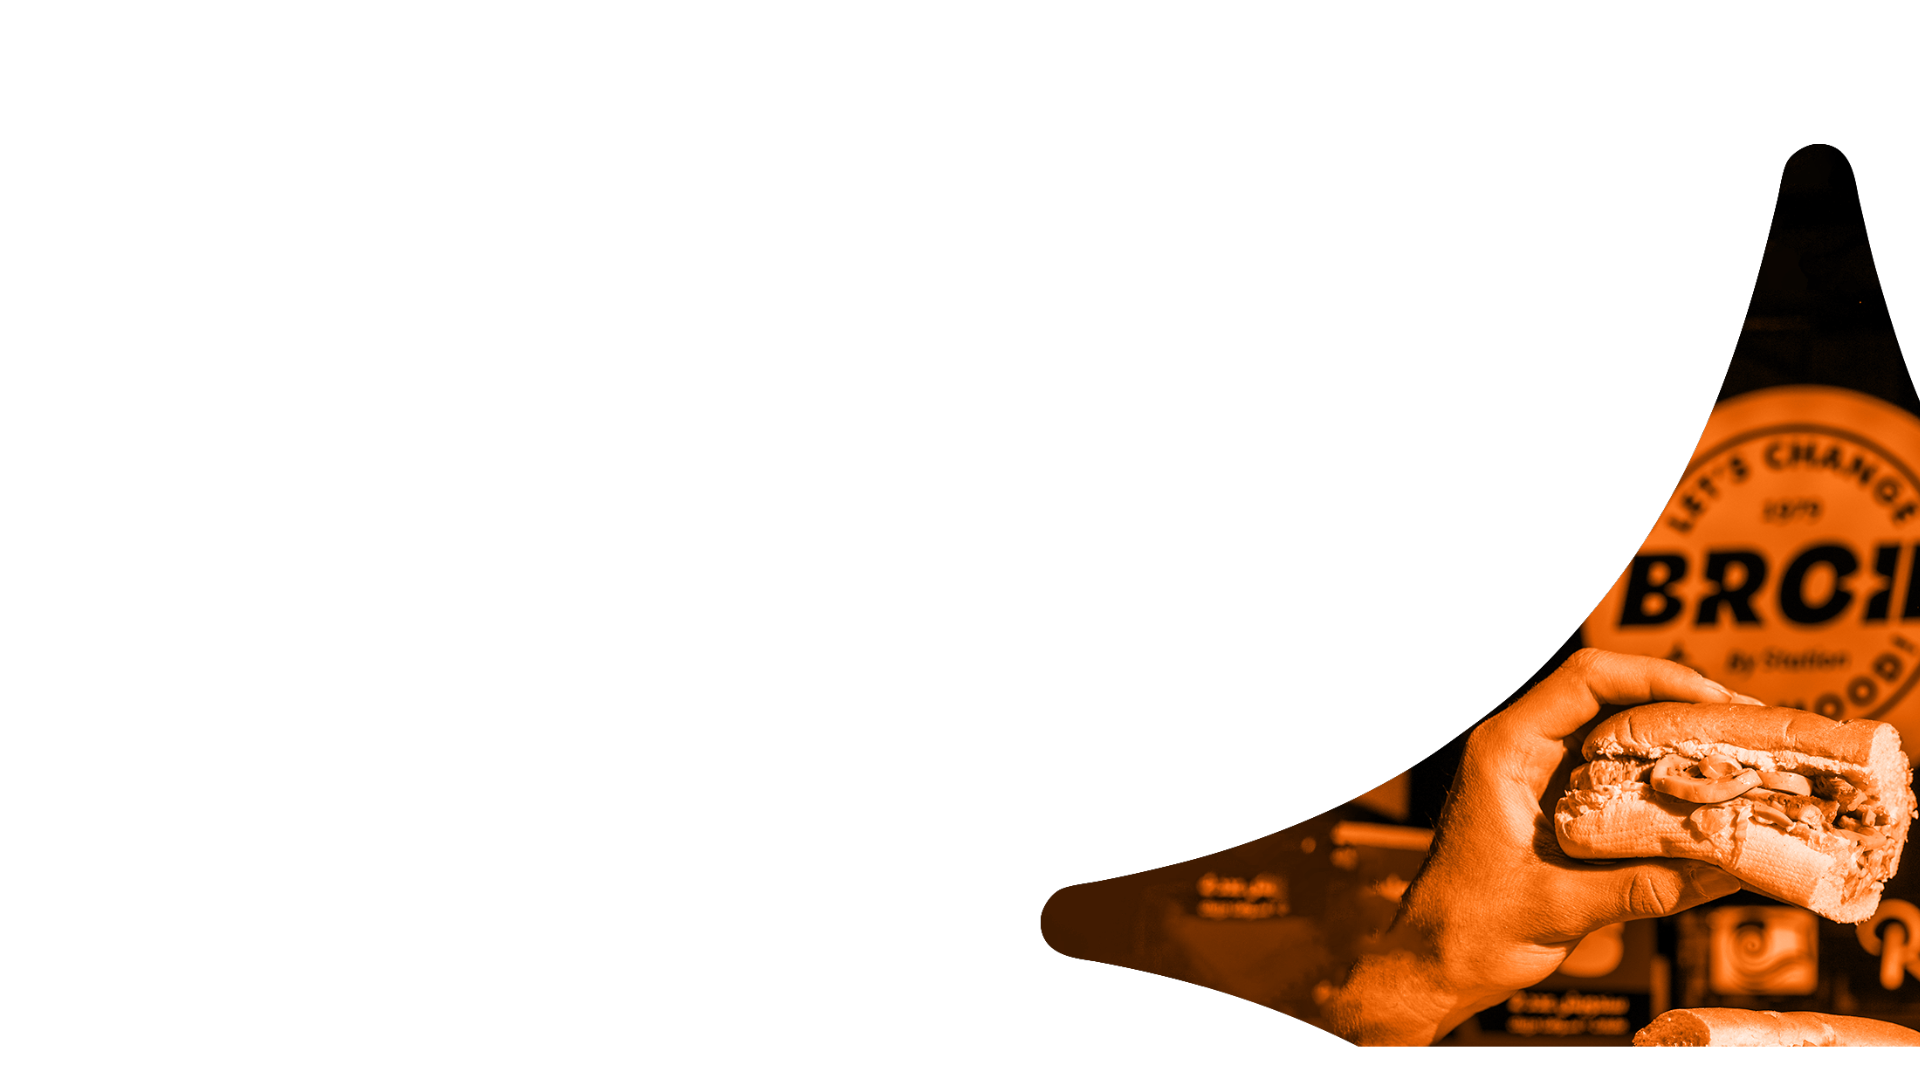
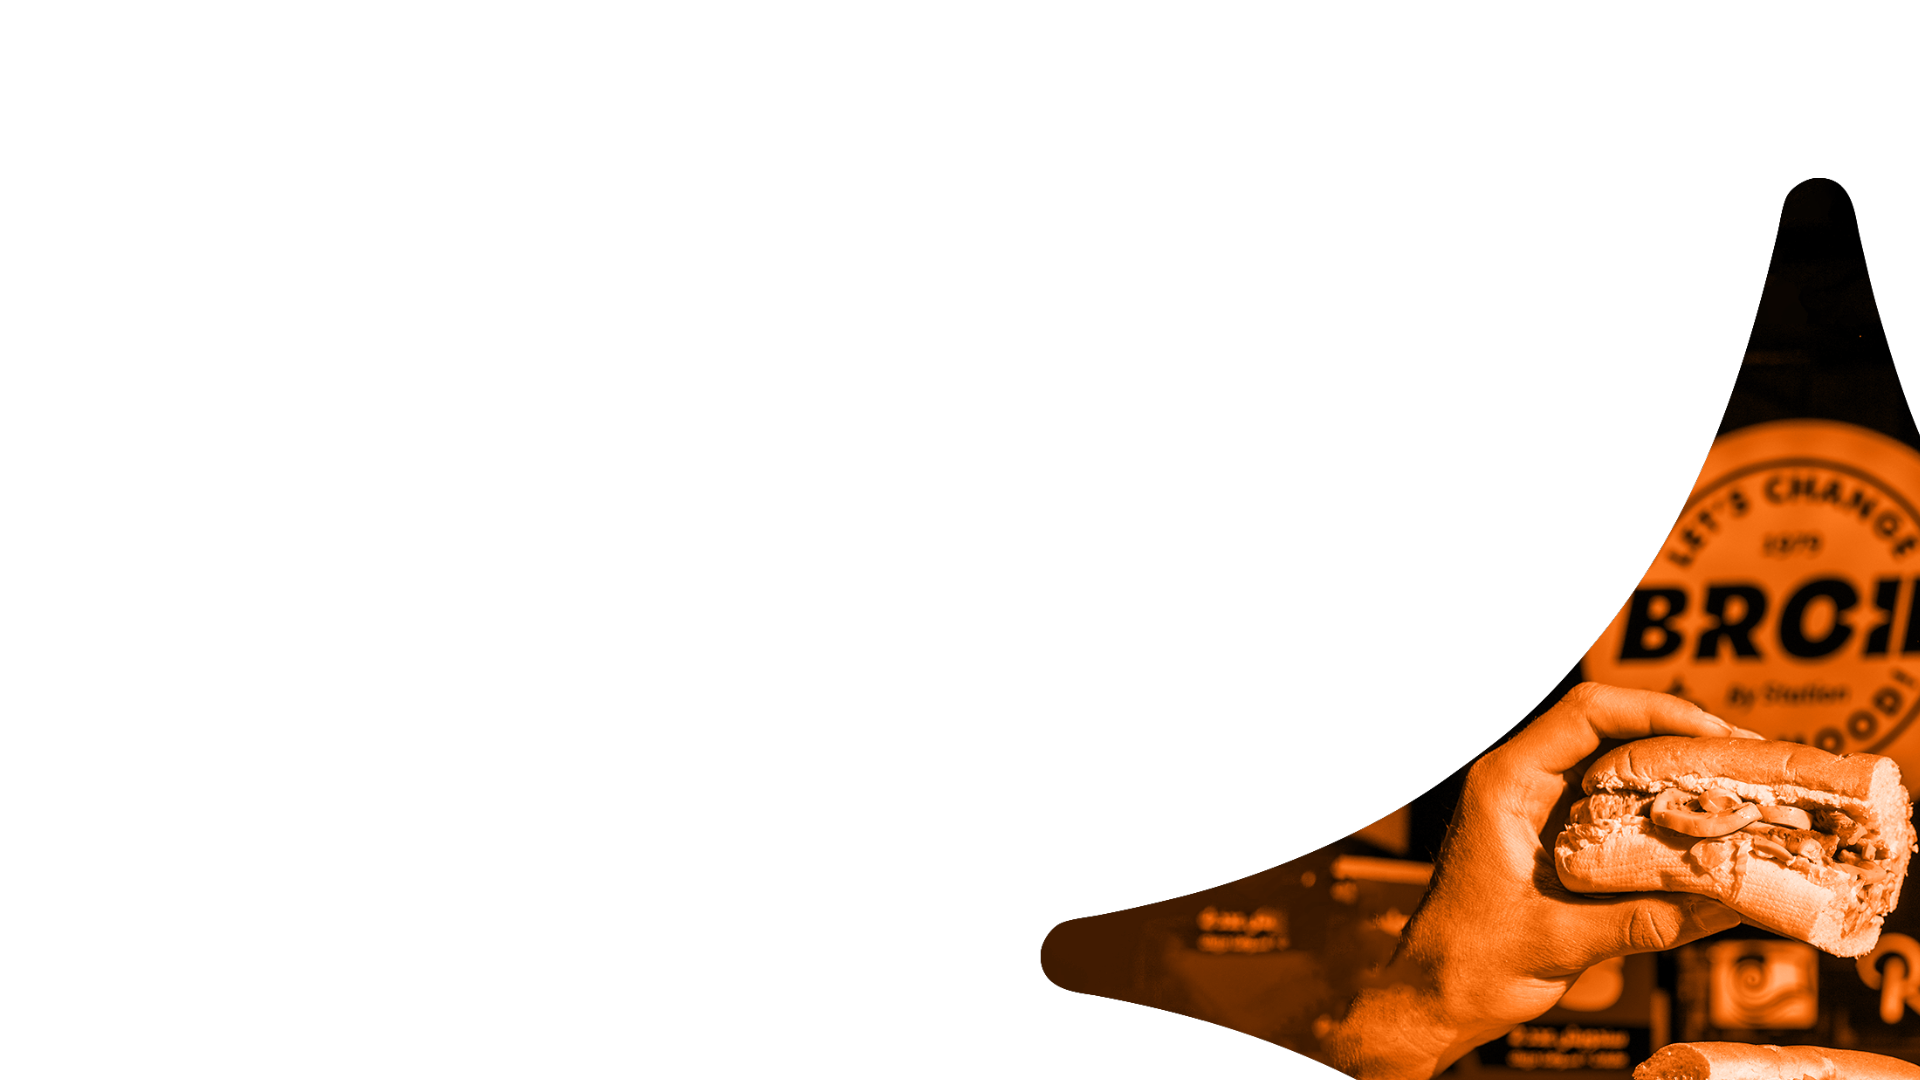
replace about image , add responsive to home

Changed region(s): [[0.5312, 0.1222, 1.0, 1.0]]

diff --git a/resources/css/about.css b/resources/css/about.css
@@ -1,47 +1,78 @@
-/* 1. Section container */
+
+.container-fluid { padding-left:6rem!important; padding-right:6rem!important; }
+@media (min-width:768px){
+    .container-fluid { padding-left:3rem; padding-right:3rem; }
+}
+/* 1) orange fill */
 .about-section {
-    position: relative;
     background-color: #F47421;
     overflow: hidden;
-    min-height: 100vh;             /* full viewport height */
+    min-height: 100vh;
+    font-size: 1.5rem;
+    font-weight: 400;
 }
 
-/* 2. Your text lives above everything */
-.about-content-wrapper {
-    position: relative;
+/* 2) empty full-size layer for solid orange */
+.about-bg {
+    z-index: 0;
+}
+
+/* 3) photo layer: sits on top of the orange, behind the text */
+.about-photo-layer {
+    z-index: 1;
+    bottom: 0;
+    right: 0;
+    position: absolute;
+    width: 100%;          /* tweak this % to expose more or less of the photo */
+    height: 100%;
+    background: url('../images/about-background-star.png') no-repeat center/cover;
+    /* clip an ellipse: wide enough to show just the right-hand curve */
+    clip-path: ellipse(70% 100% at 100% 100%);
+    filter: drop-shadow(-10px 0 15px rgba(0,0,0,0.3));
+
+}
+
+/* 4) make sure your text sits above both layers */
+.about-section .position-relative {
     z-index: 2;
 }
 
-/* 3. Photo layer underneath the orange panel */
-.about-photo-layer {
-    position: absolute;
-    bottom: 0; right: 0;
-    width: 70%;                     /* tweak to control how much photo peeks out */
-    height: 100%;
-    background: url('../images/about-background-star.png') center/cover no-repeat;
-    /* Clip an ellipse: 70% wide & 100% tall, anchored at bottom-right */
-    clip-path: ellipse(70% 100% at 100% 100%);
-    z-index: 1;
-}
-
-/* 4. Optional: if you want a slight drop-shadow on the edge */
-.about-photo-layer {
-    filter: drop-shadow(-10px 0 15px rgba(0,0,0,0.3));
-}
-
-/* 5. Smile‐face & type as before… */
+/* 5) hide the smile on xs (you already have this) */
 .smile-face {
-    width: 40px; height: 40px;
+    width: 40px;
+    height: 40px;
     background: url('../images/smile-face.png') center/contain no-repeat;
-    transition: transform .2s;
 }
-.smile-face:hover {
-    transform: scale(1.1);
+.smile-face:hover,
+.smile-face:focus{
+    /*transform: scale(1.1);*/
     background-image: url('../images/smile-face2.svg');
 }
 
-/* 6. Typography & responsive scaling (as before) */
-.about-title { font-size: 3.5rem; /*…*/ }
-.about-intro.lead { font-size: 1.2rem; /*…*/ }
-/* etc… your existing media-queries */
+/* 6) typography as you already had */
+.about-title {
+    font-size: 3.8rem;
+    font-weight: 900;
+    letter-spacing: 2px;
+}
 
+
+.about-intro.lead {
+    color: var(--unnamed-color-ffffff);
+    font-size: 1.5rem;
+    letter-spacing: 1px;
+}
+.bolder-text{
+    font-weight: 700;
+}
+
+@media (max-width: 991px) {
+    .about-title { font-size: 3rem; }
+    .about-intro.lead { font-size: 1.1rem; }
+}
+
+@media (max-width: 575px) {
+    .about-title { font-size: 2.4rem; }
+    .about-intro.lead { font-size: 1rem; }
+    .about-body p { font-size: 0.9rem; }
+}

diff --git a/resources/css/home.css b/resources/css/home.css
@@ -37,7 +37,7 @@
 /* Bootstrap Carousel Customization */
 .image-slider {
     border: 1px solid var(--unnamed-color-707070);
-    background: #F47421 0% 0% no-repeat padding-box;
+    background: #F47421 0 0 no-repeat padding-box;
     /*border: 1px solid #707070;*/
     margin-top: 63px;
     z-index: 100;
@@ -45,7 +45,7 @@
 }
 
 .bg-orange {
-    background: #F47421 0% 0% no-repeat padding-box;;
+    background: #F47421 0 0 no-repeat padding-box;;
 }
 
 .smile-face{
@@ -112,7 +112,7 @@
     transform: translateY(-50%) translateX(-50%);
     z-index: 10;
     max-width: 650px;
-    letter-spacing: 0.84px;
+    letter-spacing: 1px;
     line-height: 35px;
 }
 
@@ -407,7 +407,7 @@
     }
 
     .broil-background-text {
-        top: 0%;
+        top: 0;
         left: 20%;
         width: 80%;
         scale: 2;
@@ -479,7 +479,7 @@
         font-size: 64px;
         color: var(--unnamed-color-ffffff);
         text-align: center;
-        letter-spacing: 0px;
+        letter-spacing: 0;
         line-height: 1.1;
     }
 
@@ -493,7 +493,7 @@
         bottom: 40px;
         left: 40px;
         max-width: 450px;
-        letter-spacing: 0.84px;
+        letter-spacing: 1px;
         line-height: 35px;
     }
 

diff --git a/resources/views/about.blade.php b/resources/views/about.blade.php
@@ -5,26 +5,29 @@
         {{-- Background layer --}}
         <div class="about-bg position-absolute w-100 h-100"></div>
 
-        <div class="container py-5 position-relative">
+        <div class="about-photo-layer position-absolute"></div>
+
+
+        <div class="container-fluid py-5 position-relative px-0 ">
             {{-- Smile face (hidden on xs) --}}
-            <div class="row justify-content-center mb-4">
+            <div class="d-flex justify-content-center">
                 <div class="col-auto d-none d-sm-flex justify-content-center">
                     <span class="smile-face"></span>
                 </div>
             </div>
 
             {{-- Main content --}}
-            <div class="row justify-content-center">
-                <div class="col-11 col-md-8 col-lg-6">
+            <div class="row">
+                <div class="col-12 col-md-8 col-lg-6">
                     <div class="about-content text-center text-lg-start">
                         <h1 class="about-title mb-4">WHO WE ARE</h1>
                         <p class="about-intro lead mb-4">
-                            WELCOME TO BROIL – FAST FOOD WITH FLAVOR AND HERITAGE
+                            WELCOME TO <span class="bolder-text">BROIL</span> – FAST FOOD WITH FLAVOR AND HERITAGE
                         </p>
                         <div class="about-body mb-5">
                             <p>AT BROIL, WE SERVE BOLD FLAVORS, FRESH INGREDIENTS, AND FAST SERVICE – ALL WRAPPED IN A CASUAL AND WELCOMING EXPERIENCE. WHETHER YOU'RE STOPPING BY FOR A QUICK SNACK OR A FULL MEAL, BROIL DELIVERS QUALITY YOU CAN TASTE IN EVERY BITE.</p>
                             <p>WE'RE MORE THAN JUST A FAST FOOD RESTAURANT – WE'RE THE NEW GENERATION OF A TIME-HONORED TRADITION. BROIL IS PROUDLY OWNED AND OPERATED BY THE SAME TEAM BEHIND STATION, A BELOVED LOCAL SNACK SPOT THAT HAS BEEN SERVING CUSTOMERS WITH CARE AND PASSION SINCE 1979.</p>
-                            <p class="fw-bold">FROM OUR CLASSIC ROOTS TO OUR MODERN MENU, EVERYTHING WE DO REFLECTS A COMMITMENT TO FLAVOR, CONSISTENCY, AND COMMUNITY.</p>
+                            <p ><span class="fw-bold">FROM OUR CLASSIC ROOTS</span> TO OUR MODERN MENU, EVERYTHING WE DO REFLECTS A COMMITMENT TO FLAVOR, CONSISTENCY, AND COMMUNITY.</p>
                         </div>
                         <div class="contact-info">
                             <p class="mb-1">For more info:</p>
